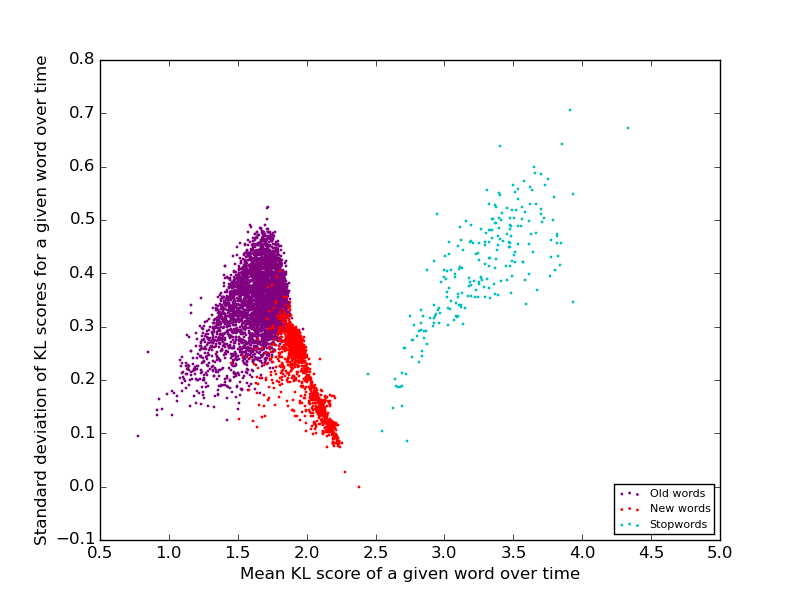
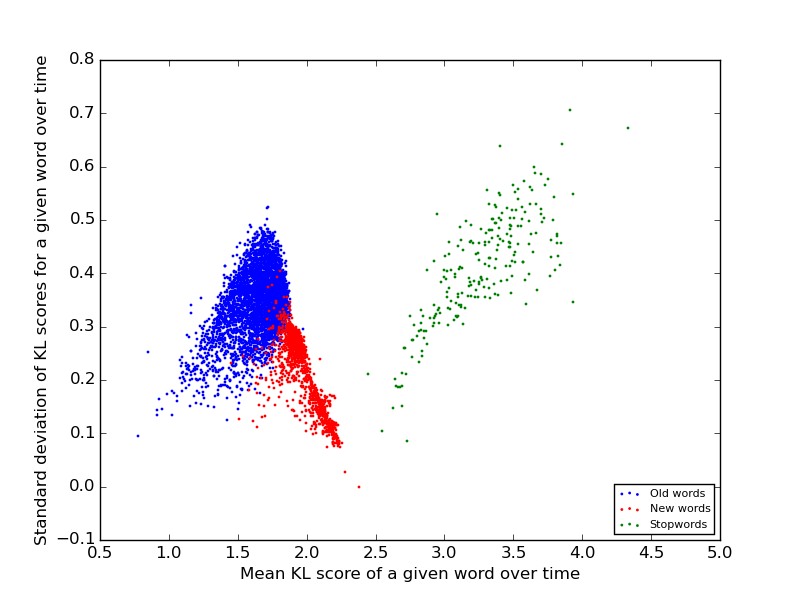
added two scatterplots containing both old and new words, each colored by tf or log tf with different colormaps; recolored old/new/stopwords in time series and scatterplot of all words

diff --git a/graph_and_stuff.py b/graph_and_stuff.py
@@ -20,6 +20,13 @@ with open(new_words_filename) as fp:
     reader = csv.reader(fp, delimiter=',')
     new_words_header = next(reader)
     new_words_table = sorted([ row for row in csv.reader(fp, delimiter=',') ])
+
+# Unpack the table of old words.
+old_words_filename = 'old_words.csv'
+with open(old_words_filename) as fp:
+    reader = csv.reader(fp, delimiter=',')
+    old_words_header = next(reader)
+    old_words_table = sorted([ row for row in csv.reader(fp, delimiter=',') ])
     
 # Unpack the KL score data and compute means and stddevs for each word.
 kls_filename = '_word_symKL_scores.csv'
@@ -93,13 +100,13 @@ for wordtype in wordtypes[:2]:
 # old words, new words, and stopwords.
 for wordtype in wordtypes:
     if wordtype == 'old':
-        color = 'purple'
+        color = 'b'
         label = 'Old words'
     if wordtype == 'new':
         color = 'r'
         label = 'New words'
     if wordtype == 'stop':
-        color = 'c'
+        color = 'g'
         label = 'Stopwords'
     plt.scatter(kl_means[wordtype], kl_stddevs[wordtype],
                 s=1, color=color, label=label)
@@ -113,7 +120,7 @@ plt.close()
 
 
 
-# Make three scatterplots of tuples (mean, stddev) for only new
+# Make multiple scatterplots of tuples (mean, stddev) for only new
 # words, where a point is colored by
 # -- the time of the word's first appearance,
 # -- the term frequency of the word,
@@ -125,7 +132,7 @@ plt.close()
 # -- the relative document frequency of the word (i.e., number
 #    of months in which it appeared divided by the number of months
 #    after and including its first appearance).
-cmap = plt.cm.coolwarm
+coolwarm = plt.cm.coolwarm
 
 first_appearances = dict()
 for row in new_words_table:
@@ -175,9 +182,9 @@ for z in [first_appearances, term_freqs, log_term_freqs, rel_term_freqs,
 
     fig, ax = plt.subplots()
     ax.set_axis_bgcolor('0.25')
-    ax.scatter(kl_means['new'], kl_stddevs['new'], s=1, color=cmap(colors))
+    ax.scatter(kl_means['new'], kl_stddevs['new'], s=1, color=coolwarm(colors))
 
-    m = plt.cm.ScalarMappable(cmap=cmap)
+    m = plt.cm.ScalarMappable(cmap=coolwarm)
     m.set_array(colors)
     cbar = plt.colorbar(m, ticks=[0,1])
     if z == first_appearances:
@@ -216,6 +223,66 @@ for z in [first_appearances, term_freqs, log_term_freqs, rel_term_freqs,
 
 
 
+# Make two more scatterplots:
+# -- plot mean vs std of both new and old words colored by term frequency,
+#    with different colormaps,
+# -- do the same for log term frequency.
+summer = plt.cm.summer
+
+old_term_freqs = { row[old_words_header.index('word')]
+                   : float(row[old_words_header.index('term frequency') ])
+                   for row in old_words_table }
+
+log_old_term_freqs = { word : np.log(tf) for (word, tf)
+                       in old_term_freqs.items() }
+
+colored_bys = ['tf', 'ltf']
+for colored_by in colored_bys:
+    fig, ax = plt.subplots()
+    for wordtype in ['old','new']:
+        if wordtype == 'new':
+            cmap = coolwarm
+        elif wordtype == 'old':
+            cmap = summer
+
+        if colored_by == 'tf' and wordtype == 'new':
+            z = term_freqs
+        elif colored_by == 'ltf' and wordtype == 'new':
+            z = log_term_freqs
+        if colored_by == 'tf' and wordtype == 'old':
+            z = old_term_freqs
+        elif colored_by == 'ltf' and wordtype == 'old':
+            z = log_old_term_freqs
+        
+        # Normalize the color values so that they're in [0,1].
+        minn = min(z.values())
+        maxx = max(z.values())
+        colors = [ (z[word] - minn) / (maxx - minn)
+                   for word in words[wordtype]
+                   if remove_nones(kl_scores[wordtype][word]) != [] ]
+
+        ax.set_axis_bgcolor('0.25')
+        ax.scatter(kl_means[wordtype], kl_stddevs[wordtype], s=1,
+                   color=cmap(colors))
+
+        m = plt.cm.ScalarMappable(cmap=cmap)
+        m.set_array([0,1])
+        cbar = plt.colorbar(m, ticks=[0,1])
+        cbar.set_ticklabels(['{0:.2f}'.format(minn), '{0:.2f}'.format(maxx)])
+        if colored_by == 'tf':
+            cbar.set_label('Term frequency of {} words'.format(wordtype))
+        elif colored_by == 'ltf':
+            cbar.set_label('Log term frequency of {} words'.format(wordtype))
+
+    plt.xlabel('Mean KL score of a given word over time')
+    plt.ylabel('Standard deviation of KL scores for a given word over time')
+    plt.savefig('plots/scatter_symKL_mean_vs_std_colored_by_{}_with_old.png'
+                .format(colored_by), dpi=200)
+    plt.close()
+
+
+
+
 # More scatterplots: mean vs date of first appearance and stddev vs date.
 firsts = [ first_appearances[word] for word in words['new']
            if remove_nones(kl_scores['new'][word]) != [] ]
@@ -230,6 +297,7 @@ plt.xlabel('Date of first appearance')
 plt.ylabel('Standard deviation of KL scores of a given word over time')
 plt.savefig('plots/scatter_stddev_KL_vs_first_appearance.png')
 plt.close()
+
 
 
 
@@ -252,7 +320,7 @@ for num_years in [5,8]:
         if scores != []:
             partial_means.append(np.mean(scores))
             partial_stddevs.append(np.std(scores))
-            colors.append(cmap((start[0]-1970)/(2000-1970)))
+            colors.append(coolwarm((start[0]-1970)/(2000-1970)))
     
     fig, ax = plt.subplots()
     ax.set_axis_bgcolor('0.25')
@@ -420,11 +488,11 @@ for word in sorted_words:
             scores.append(score)
             ds.append(d[0] + (d[1]-1)/12)
     first = first[0] + (first[1]-1)/12
-    c = matplotlib.colors.rgb2hex(cmap((first - 1970) / (2000-1970)))
+    c = matplotlib.colors.rgb2hex(coolwarm((first - 1970) / (2000-1970)))
     if scores != []:
         ax.plot(ds, scores, alpha=0.05, color=c)
 
-m = plt.cm.ScalarMappable(cmap=cmap)
+m = plt.cm.ScalarMappable(cmap=coolwarm)
 m.set_array([0,1])
 cbar = plt.colorbar(m, ticks=[0,1])
 cbar.set_ticklabels(['1970','2000'])
